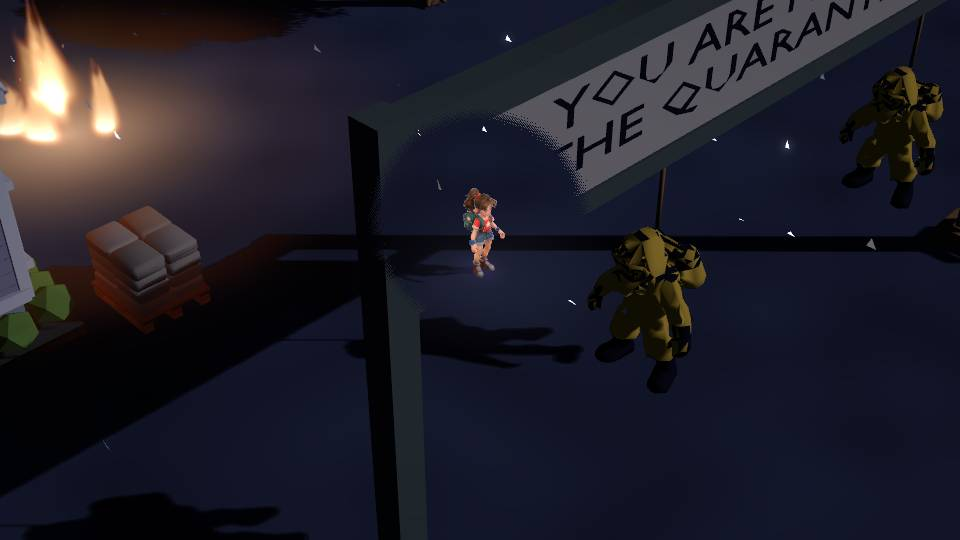
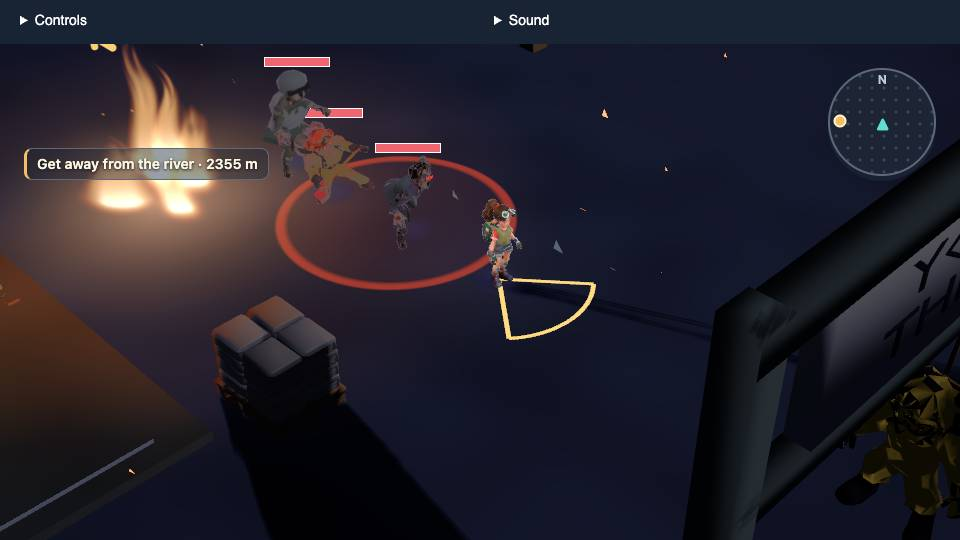
Record HIGH production gate approach

diff --git a/docs/reports/s186-l10setpieces/README.md b/docs/reports/s186-l10setpieces/README.md
@@ -8,9 +8,9 @@ The six scenes are arranged around the existing corridor groups at 2940, 3060, 3
 
 ## Diagnostic stills
 
-These are staged HIGH zoom 1 Scene Lab views and the LOW gate view, not evidence that the native key moments occurred or were accepted.
+These are staged HIGH zoom 1 views and the LOW gate view. The HIGH gate view uses the production camera after a teleport and scripted movement; the others use Scene Lab. None establishes that the native key moments occurred or were accepted.
 
-- Gate: [HIGH](gate-high-diagnostic.jpg), [LOW](gate-low-diagnostic.jpg). Both figures appear; the overhead sign is cropped and the burst is not shown.
+- Gate: [HIGH](gate-high-diagnostic.jpg), [LOW](gate-low-diagnostic.jpg). The HIGH frame shows nearby infected, part of the sign and one figure; the LOW Scene Lab frame shows both figures. The sign is cropped and the burst is not shown.
 - Billboard: [HIGH](billboard-high-diagnostic.jpg), with the fall fraction manually set to 1; no crowd is visible.
 - Field: [HIGH](field-high-diagnostic.jpg); figures are at the frame edge and no one tears free.
 - Convoy: [HIGH](convoy-high-diagnostic.jpg); a cropped truck and infected are visible, but not the three-sided wave or clear flames.
@@ -103,6 +103,8 @@ LOW skilled seed 1 completed in 1,116.0 s with two deaths after the convoy crate
 - After the convoy crate change, the required remote full unit suite passed again: 27 files, 105 passed and one skipped, 187.4 s / 240 s. The final LOW visit-gap receipt above is also refreshed after the crate change. The unmodified local E32 check still reports the separate L4 routing failure recorded above.
 
 - A separate post-crate LOW skilled seed 1 run also completed in 1,116.0 s with two deaths, matching the independent visit-gap run. All six cohorts admitted their full LOW slots and the courier hit members of each. Only the convoy and underpass cohorts produced captured attack telegraphs (first at 8.0 s and 4.88 s after release); the hospital cohort dealt 10 damage without a captured telegraph, and gate, billboard and field produced no recorded telegraph or damage. [Cohort receipt](low-final-cohorts.json). This is evidence of courier engagement, not proof of six distinct visible surprises or attacks.
+
+- A HIGH production-camera gate inspection teleported the courier to x=2980, then moved her east with god mode at zoom 1. At x=3002 the opened frame shows a nearby hostile telegraph, multiple infected behind the courier, one partially visible effigy and a cropped gantry sign ([HIGH still](gate-high-diagnostic.jpg)). The test does not establish which cohort supplied the infected or that they emerged from the tower; the trailing group also echoes the s185 staging failure. This is a scripted diagnostic, not a native skilled-route acceptance run.
 
 ## Open
 
